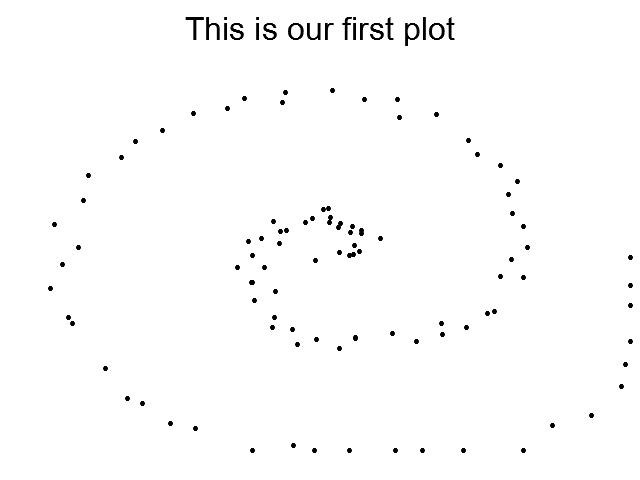
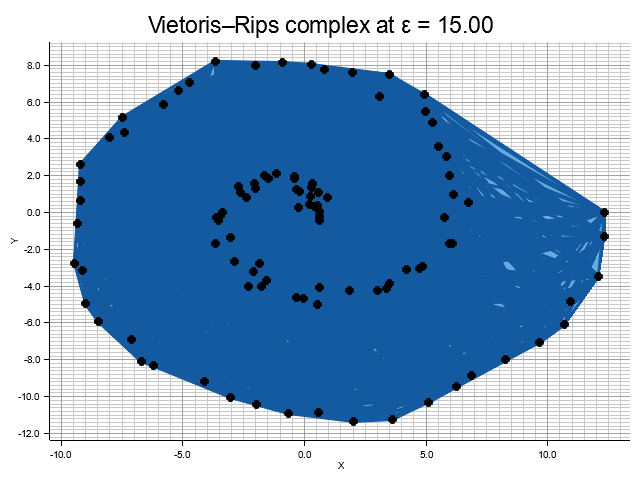
Persistence diagram plotting

diff --git a/examples/compute_torus_rips.rs b/examples/compute_torus_rips.rs
@@ -1,16 +1,126 @@
-use vietoris_rips_rust::geometry::point_set::PointSet;
-use vietoris_rips_rust::io::csv::{import_point_set, export_filtration_csv};
+use plotters::prelude::*;
+use vietoris_rips_rust::algebra::discretisation::build_boundary_matrices;
+use vietoris_rips_rust::algebra::persistence::compute_persistence_diagram;
 use vietoris_rips_rust::construction::rips::vietoris_rips;
+use vietoris_rips_rust::io::csv::import_point_set;
 
 use std::path::Path;
 
-fn main() {
-    let path = std::path::Path::new("data.csv");
+struct PersistencePoint {
+    birth: f64,
+    death: f64,
+    hom_dim: usize,
+    infinite: bool,
+}
 
-    let pointset = import_point_set::<2>(path)
-        .expect("Failed to read CSV");
 
+fn main() -> Result<(), Box<dyn std::error::Error>> {
+    let path = Path::new("data.csv");
+
+    let pointset = import_point_set::<2>(path)?;
     let filtration = vietoris_rips(&pointset, 2);
 
-    export_filtration_csv("filtration.csv", &filtration).expect("Failed to export filtration!")
+    let matrices = build_boundary_matrices(&filtration);
+    
+    let mut diagram_points: Vec<PersistencePoint> = Vec::new();
+    let mut max_filtration: f64 = 0.0;
+
+    // Process each boundary matrix to get persistence pairs
+    for (matrix_idx, matrix) in matrices.iter().enumerate() {
+        let hom_dim = matrix_idx;
+        let (_, low) = matrix.reduce();
+        let persistence = compute_persistence_diagram(matrix, &low);
+
+        // Convert indices to filtration values
+        for pair in &persistence.pairs {
+            let birth_value = filtration.simplices[pair.birth].filtration_value;
+            let death_value = pair
+                .death
+                .map(|idx| filtration.simplices[idx].filtration_value)
+                .unwrap_or(birth_value * 1.5);
+
+            max_filtration = max_filtration.max(death_value);
+            diagram_points.push(PersistencePoint {
+                birth: birth_value,
+                death: death_value,
+                hom_dim,
+                infinite: pair.death.is_none(),
+            });
+        }
+    }
+
+    let margin = 0.1 * max_filtration;
+    let root: DrawingArea<BitMapBackend<'_>, plotters::coord::Shift> =
+        BitMapBackend::new("persistence_diagram.png", (900, 900)).into_drawing_area();
+    root.fill(&WHITE)?;
+
+    let root = root.margin(50, 50, 50, 50);
+    let mut chart = ChartBuilder::on(&root)
+        .caption("Persistence Diagram", ("sans-serif", 32).into_font().style(FontStyle::Bold))
+        .x_label_area_size(40)
+        .y_label_area_size(50)
+        .build_cartesian_2d(
+            -margin..(max_filtration + margin),
+            -margin..(max_filtration + margin),
+        )?;
+
+    chart
+        .configure_mesh()
+        .x_desc("Birth")
+        .y_desc("Death")
+        .draw()?;
+
+    chart.draw_series(std::iter::once(PathElement::new(
+        vec![(0.0, 0.0), (max_filtration, max_filtration)],
+        ShapeStyle::from(&RGBColor(150, 150, 150)).stroke_width(2),
+    )))?;
+
+    let colors = vec![
+        RGBColor(31, 119, 180),
+        RGBColor(44, 160, 44),
+        RGBColor(214, 39, 40),
+        RGBColor(148, 103, 189),
+        RGBColor(140, 86, 75),
+    ];
+
+    for dim in 0..matrices.len() {
+        let points: Vec<_> = diagram_points
+            .iter()
+            .filter(|p| p.hom_dim == dim && !p.infinite)
+            .collect();
+
+        if points.is_empty() {
+            continue;
+        }
+
+        let color = colors.get(dim).unwrap_or(&RGBColor(100, 100, 100));
+        chart.draw_series(points.iter().map(|p| {
+            Circle::new((p.birth, p.death), 1, color.filled())
+        }))?;
+    }
+
+    for dim in 0..matrices.len() {
+        let points: Vec<_> = diagram_points
+            .iter()
+            .filter(|p| p.hom_dim == dim && p.infinite)
+            .collect();
+
+        if points.is_empty() {
+            continue;
+        }
+
+        let color = colors.get(dim).unwrap_or(&RGBColor(100, 100, 100));
+        chart.draw_series(points.iter().map(|p| {
+            TriangleMarker::new((p.birth, p.death), 1, color.filled())
+        }))?;
+    }
+
+    root.present()?;
+    println!("Persistence diagram saved to 'persistence_diagram.png'");
+    for dim in 0..matrices.len() {
+        let count = diagram_points.iter().filter(|p| p.hom_dim == dim).count();
+        println!("H_{} features: {}", dim, count);
+    }
+    
+    Ok(())
 }

diff --git a/examples/filtration_plot.rs b/examples/filtration_plot.rs
@@ -1,35 +1,77 @@
 use plotters::prelude::*;
-use vietoris_rips_rust::geometry::point_set::PointSet;
-use vietoris_rips_rust::io::csv::{import_point_set, export_filtration_csv};
+use vietoris_rips_rust::io::csv::import_point_set;
 use vietoris_rips_rust::construction::rips::vietoris_rips;
 
 use std::path::Path;
 
 
 fn main() -> Result<(), Box<dyn std::error::Error>> {
+    let path = Path::new("data.csv");
 
-    let path = std::path::Path::new("data.csv");
-
-    let pointset = import_point_set::<2>(path)
-        .expect("Failed to read CSV");
-
+    let pointset = import_point_set::<2>(path)?;
     let filtration = vietoris_rips(&pointset, 2);
+    let epsilon = 15.0;
+    let complex_at_epsilon = filtration.get_simplicial_complex(epsilon);
+
+    let xs: Vec<f64> = (0..pointset.len())
+        .map(|i| pointset.get(i).coords[0])
+        .collect();
+    let ys: Vec<f64> = (0..pointset.len())
+        .map(|i| pointset.get(i).coords[1])
+        .collect();
+
+    let x_min = xs.iter().cloned().fold(f64::INFINITY, f64::min);
+    let x_max = xs.iter().cloned().fold(f64::NEG_INFINITY, f64::max);
+    let y_min = ys.iter().cloned().fold(f64::INFINITY, f64::min);
+    let y_max = ys.iter().cloned().fold(f64::NEG_INFINITY, f64::max);
+    let margin = 1.0;
 
     let root: DrawingArea<BitMapBackend<'_>, plotters::coord::Shift> = BitMapBackend::new("test.png", (640, 480)).into_drawing_area();
-    root.fill(&WHITE);
+    root.fill(&WHITE)?;
 
     let root = root.margin(10, 10, 10, 10);
     // After this point, we should be able to construct a chart context
     let mut chart = ChartBuilder::on(&root)
-        // Set the caption of the chart
-        .caption("This is our first plot", ("sans-serif", 40).into_font())
-        // Set the size of the label region
-        .x_label_area_size(20)
+        .caption(
+            format!("Vietoris–Rips complex at ε = {:.2}", epsilon),
+            ("sans-serif", 28).into_font().style(FontStyle::Bold),
+        )
+        .x_label_area_size(30)
         .y_label_area_size(40)
-        // Finally attach a coordinate on the drawing area and make a chart context
-        .build_cartesian_2d(-10f64..10f64, -10f64..10f64)?;
+        .build_cartesian_2d(
+            (x_min - margin)..(x_max + margin),
+            (y_min - margin)..(y_max + margin),
+        )?;
 
+    chart
+        .configure_mesh()
+        .x_desc("X")
+        .y_desc("Y")
+        .light_line_style(ShapeStyle::from(&RGBColor(200, 200, 200)).stroke_width(1))
+        .draw()?;
 
+    for triangle in complex_at_epsilon.simplices.iter().filter(|s| s.dimension() == 2) {
+        let a = pointset.get(triangle.vertices[0]);
+        let b = pointset.get(triangle.vertices[1]);
+        let c = pointset.get(triangle.vertices[2]);
+        chart.draw_series(std::iter::once(Polygon::new(
+            vec![
+                (a.coords[0], a.coords[1]),
+                (b.coords[0], b.coords[1]),
+                (c.coords[0], c.coords[1]),
+            ],
+            RGBColor(100, 170, 220).filled(),
+        )))?;
+    }
+
+    for edge in complex_at_epsilon.simplices.iter().filter(|s| s.dimension() == 1) {
+        let a = pointset.get(edge.vertices[0]);
+        let b = pointset.get(edge.vertices[1]);
+        chart.draw_series(LineSeries::new(
+            vec![(a.coords[0], a.coords[1]), (b.coords[0], b.coords[1])],
+            RGBColor(20, 90, 160).stroke_width(2),
+        ))?;
+    }
 
     chart.draw_series(
         PointSeries::of_element(
@@ -37,7 +79,7 @@ fn main() -> Result<(), Box<dyn std::error::Error>> {
                 let p = pointset.get(i);
                 (p.coords[0], p.coords[1])
             }),
-            2,
+            4,
             &BLACK,
             &|c: (f64, f64), s, st| {
                 EmptyElement::at(c)

diff --git a/examples/scripts/generate_2d_manifold.py b/examples/scripts/generate_2d_manifold.py
@@ -15,10 +15,33 @@ def spiral(n=300, noise=0.05):
     return np.column_stack((x, y))
 
 
+
+def ring(n=300, r_inner=2.0, r_outer=4.0, noise=0.05, uniform_area=True):
+    theta = np.linspace(0, 2*np.pi, n, endpoint=False)
+
+    if uniform_area:
+        # uniform in area: r^2 is uniform
+        u = np.random.rand(n)
+        r = np.sqrt(u * (r_outer**2 - r_inner**2) + r_inner**2)
+    else:
+        # uniform in radius
+        r = np.random.uniform(r_inner, r_outer, size=n)
+
+    x = r * np.cos(theta)
+    y = r * np.sin(theta)
+
+    # add noise
+    x += noise * np.random.randn(n)
+    y += noise * np.random.randn(n)
+
+    return np.column_stack((x, y))
+
 def save_csv(points, filename="data.csv"):
     with open(filename, "w", newline="") as f:
         writer = csv.writer(f)
         writer.writerows(points)
 
 data = spiral(n=100, noise=0.3)
+
+#data = ring(n=500, r_inner=2.0, r_outer=4.0, noise=0.3)
 save_csv(data, "../../data.csv")
